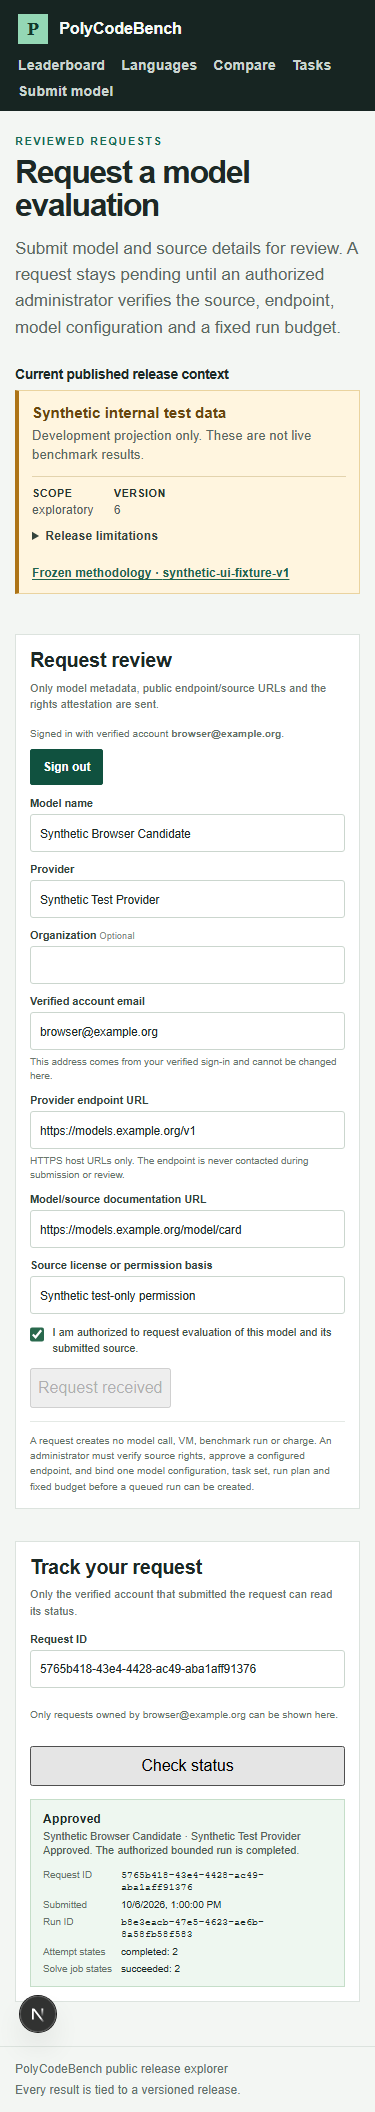
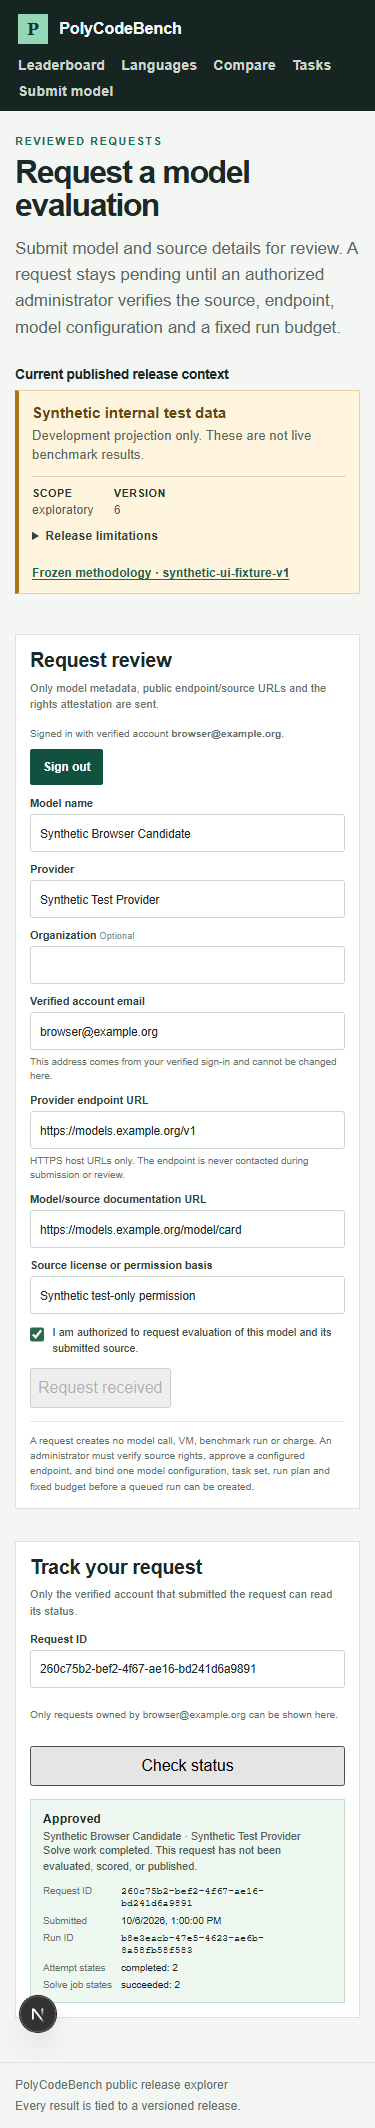
fix(submissions): distinguish solve progress from scoring

diff --git a/apps/web/src/components/model-submission-form.tsx b/apps/web/src/components/model-submission-form.tsx
@@ -190,11 +190,7 @@ export function ModelSubmissionForm({
 }
 
 function SubmissionStatus({ status }: { status: ModelSubmissionStatus }) {
-  const copy = status.status === "pending"
-    ? "Pending review. No endpoint has been contacted and no run or charge exists."
-    : status.status === "rejected"
-      ? `Rejected. ${status.rejection_reason ?? "The reviewer did not provide a public reason."}`
-      : `Approved. The authorized bounded run is ${status.run_status ?? "queued"}.`;
+  const copy = submissionStatusCopy(status);
   return (
     <div className={`submission-status status-${status.status}`} role="status" aria-live="polite">
       <div className="submission-status-heading">
@@ -213,6 +209,26 @@ function SubmissionStatus({ status }: { status: ModelSubmissionStatus }) {
       </dl>
     </div>
   );
+}
+
+function submissionStatusCopy(status: ModelSubmissionStatus): string {
+  if (status.status === "pending") {
+    return "Pending review. No endpoint has been contacted and no run or charge exists.";
+  }
+  if (status.status === "rejected") {
+    return `Rejected. ${status.rejection_reason ?? "The reviewer did not provide a public reason."}`;
+  }
+  if (!status.run_status) return "Approved. The bounded solve run has not been created yet.";
+  if (status.run_status === "completed") {
+    return "Solve work completed. This request has not been evaluated, scored, or published.";
+  }
+  if (status.run_status === "failed") {
+    return "Solve work failed. No evaluation or benchmark score was produced.";
+  }
+  if (status.run_status === "cancelled") {
+    return "Solve work was cancelled. No evaluation or benchmark score was produced.";
+  }
+  return `Approved. Solve work is ${status.run_status.replaceAll("_", " ")}. No evaluation result is available yet.`;
 }
 
 function formatStateCounts(states: Record<string, number>): string {

diff --git a/apps/web/tests/e2e/prompt32.spec.ts b/apps/web/tests/e2e/prompt32.spec.ts
@@ -71,17 +71,20 @@ async function showApprovedProgressFixture(page: Page, submissionId: string) {
   await page.getByLabel("Request ID").fill(submissionId);
   await page.getByRole("button", { name: "Check status" }).click();
   const approvedStatus = page.locator(".submission-status.status-approved").last();
-  await expect(approvedStatus).toContainText("run is queued");
+  await expect(approvedStatus).toContainText("Solve work is queued");
+  await expect(approvedStatus).toContainText("No evaluation result is available yet");
   await expect(approvedStatus).toContainText("Solve job states");
   await expect(approvedStatus.getByText("queued: 2", { exact: true }).last()).toBeVisible();
 
   await page.getByRole("button", { name: "Check status" }).click();
-  await expect(approvedStatus).toContainText("run is running");
+  await expect(approvedStatus).toContainText("Solve work is running");
+  await expect(approvedStatus).toContainText("No evaluation result is available yet");
   await expect(approvedStatus.getByText("queued: 1, running: 1", { exact: true }).last()).toBeVisible();
   await expect(approvedStatus.getByText("leased: 1, queued: 1", { exact: true }).last()).toBeVisible();
 
   await page.getByRole("button", { name: "Check status" }).click();
-  await expect(approvedStatus).toContainText("run is completed");
+  await expect(approvedStatus).toContainText("Solve work completed");
+  await expect(approvedStatus).toContainText("not been evaluated, scored, or published");
   await expect(approvedStatus.getByText("completed: 2", { exact: true }).last()).toBeVisible();
   await expect(approvedStatus.getByText("succeeded: 2", { exact: true }).last()).toBeVisible();
 }
